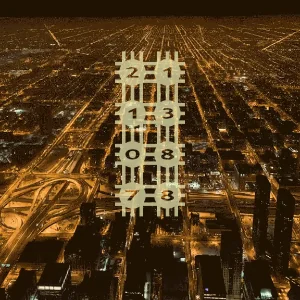
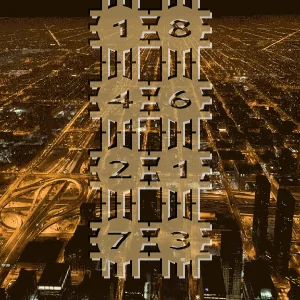
x

diff --git a/src/pages/2026/26-07/26-07-09/Clock.tsx b/src/pages/2026/26-07/26-07-09/Clock.tsx
@@ -108,6 +108,10 @@ const AnalogClock: React.FC = () => {
   );
 };
 
+
+
+
+
 const styles: { [key: string]: React.CSSProperties } = {
   container: {
     width: '100vw',
@@ -140,10 +144,11 @@ const styles: { [key: string]: React.CSSProperties } = {
     display: 'flex',
     alignItems: 'center',
     justifyContent: 'center',
-    width: '11.6vw',
-    height: '13.7vw',
-    fontSize: '14vw',
-    color: '#F1F1B9',
+    width: '20vmin',
+    height: '23.5vmin',
+    fontSize: '24vmin',
+    color: '#C5A56C',
+    textShadow: '-2px -2px 0 #000, 2px 2px 0 #fff',
   },
 };
 
